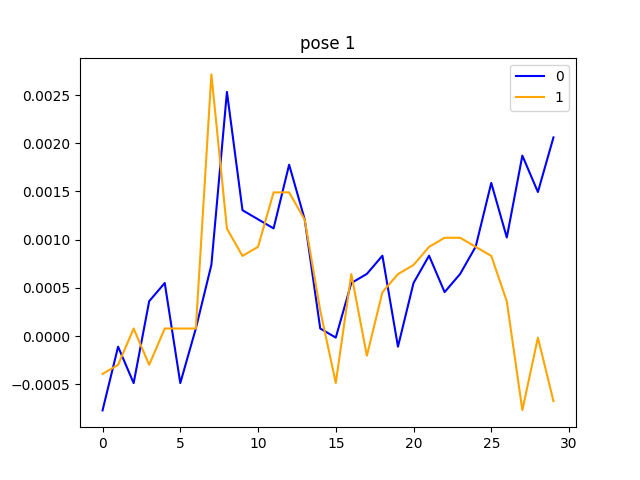
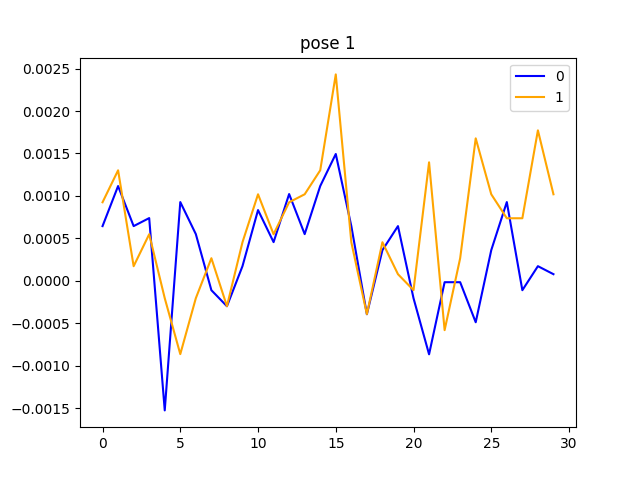
choose pose only

diff --git a/app/lib/pages/experiment.dart b/app/lib/pages/experiment.dart
@@ -23,6 +23,7 @@ import 'package:flutter/services.dart' show rootBundle;
 
 Future<void> pyInitResult = Future(() => null);
 Future<void> pyImportResult = Future(() => null);
+bool b_predRun = false;
 
 class Experiment extends StatefulWidget {
   const Experiment({Key? key}) : super(key: key);
@@ -34,7 +35,6 @@ class Experiment extends StatefulWidget {
 class ExperimentState extends State<Experiment> {
   List<int> randomIntegers =
       List.generate(40, (index) => Random().nextInt(100));
-  bool b_predRun = false;
   int iPose = 0;
   late var bytes;
   late Image _image;
@@ -112,7 +112,8 @@ class ExperimentState extends State<Experiment> {
   Future<void> predict_getData() async {
     bPredRunning = true;
     await EMGClassifierServiceClient(getClientChannel())
-        .classify_Signal(PredictRequest(idxFrom: idxFrom, idxTo: -1))
+        .classify_Signal(
+            PredictRequest(idxFrom: idxFrom, idxTo: pose_to_predict))
         .then((p0) => {
               sample_idx++,
               iPose = p0.signal,
@@ -276,6 +277,7 @@ class ExperimentState extends State<Experiment> {
         onPressed: () {
           setState(() {
             b_predRun = !b_predRun;
+            pose_to_predict = 11;
             idxFrom = 0;
           });
         },
@@ -295,6 +297,7 @@ class User_pose_selector extends StatefulWidget {
   State<User_pose_selector> createState() => _User_pose_selectorState();
 }
 
+var pose_to_predict = 0;
 const List<String> UserList = <String>['One', 'Two'];
 const List<String> PoseList = <String>['0', '1', '2', '3', '4', '5'];
 
@@ -333,6 +336,8 @@ class _User_pose_selectorState extends State<User_pose_selector> {
                 // This is called when the user selects an item.
                 setState(() {
                   dropdownValue = value!;
+                  pose_to_predict = int.parse(dropdownValue);
+                  b_predRun = true;
                 });
               },
               dropdownMenuEntries:

diff --git a/server/classifier.py b/server/classifier.py
@@ -378,49 +378,79 @@ cur_sample_idx = 0
 global pred_rate
 # pred_rate = []
 b = True
-def predict_plot():
-    # if(b):
-    #     BlueToothConnect()
-    #     b = False
-    global cur_sample_idx
-    global pred_rate
[1 lines of base64/hex data omitted]
-    if(cur_sample_idx <len(test_X_sample_rate)):
-        # for X_test_rate in test_X_sample_rate:
-        X_test_rate = test_X_sample_rate[cur_sample_idx]
-        base64=drawPlotAlongSample(X_test_rate)
-        if(base64!=None):
-            plot_as_base64 = base64
-        preds_1 = load_model_1.predict(X_test_rate)
-        preds_2 = load_model_2.predict(X_test_rate)
-        preds_3 = load_model_3.predict(X_test_rate)
+def predict_plot(cur_sample_idx,wanted_pose):
+    # pose = 5+
+    sample_idx_from=0
+    sample_idx_to=0
 
-        pred_c = []
-        pred_c.append(preds_1)
-        pred_c.append(preds_2)
-        pred_c.append(preds_3)
-        pred_c = np.array(pred_c)
-
-
-        preds_label_c = []
-        for preds in pred_c:
-            pred_label = []
-            for prediction in preds:
-                pred_label.append(np.argmax(prediction))
-            pred_label = np.array(pred_label)
-            preds_label_c.append(pred_label)
+    if(wanted_pose>5):
+        lim_sample_idx=len(test_X_sample_rate)
+        start_idx = 0
         
-
-        preds_label_c = acquire_pred_for_each(pred_c)
-        
-        pred = predFromMaxPred(X_test_rate,preds_label_c)
-        bluetoothCommand(pred)
-        # pred_rate.append(pred)
-        pred_rate = np.array(pred)
-
-        cur_sample_idx += 1
     else:
-        cur_sample_idx = 0
+
+        match wanted_pose:
+            case 0:
+                sample_idx_from = 000
+                sample_idx_to = 111
+            case 1:
+                sample_idx_from = 113
+                sample_idx_to = 222
+            case 2:
+                sample_idx_from = 222
+                sample_idx_to = 334
+            case 3:
+                sample_idx_from = 334
+                sample_idx_to = 446
+            case 4:
+                sample_idx_from = 447
+                sample_idx_to = 558
+            case 5:
+                sample_idx_from = 559
+                sample_idx_to = -1
+        cur_sample_idx = sample_idx_from
+        lim_sample_idx = sample_idx_to
+        start_idx = sample_idx_from
+
+
+    # if(cur_sample_idx <len(test_X_sample_rate)):
+    
+    if(cur_sample_idx > lim_sample_idx):
+        cur_sample_idx = start_idx
+    
+    # for X_test_rate in test_X_sample_rate:
+    X_test_rate = test_X_sample_rate[cur_sample_idx]
+    # X_test_rate = test_X_sample_rate[0]
+    base64=drawPlotAlongSample(X_test_rate)
+    if(base64!=None):
+        plot_as_base64 = base64
+    preds_1 = load_model_1.predict(X_test_rate)
+    preds_2 = load_model_2.predict(X_test_rate)
+    preds_3 = load_model_3.predict(X_test_rate)
+
+    pred_c = []
+    pred_c.append(preds_1)
+    pred_c.append(preds_2)
+    pred_c.append(preds_3)
+    pred_c = np.array(pred_c)
+
+
+    preds_label_c = []
+    for preds in pred_c:
+        pred_label = []
+        for prediction in preds:
+            pred_label.append(np.argmax(prediction))
+        pred_label = np.array(pred_label)
+        preds_label_c.append(pred_label)
+    
+
+    preds_label_c = acquire_pred_for_each(pred_c)
+    
+    pred = predFromMaxPred(X_test_rate,preds_label_c)
+    bluetoothCommand(pred)
+    # pred_rate.append(pred)
+    pred_rate = np.array(pred)
+
     # return pred_rate[-1]
         # print(plot_as_base64)
     return {'pred':pred_rate,'base64':plot_as_base64}

diff --git a/server/server.py b/server/server.py
@@ -22,7 +22,10 @@ class UrMumJoke(services_pb2_grpc.UrMumJoke):
 class EMGClassifierService(services_pb2_grpc.EMGClassifierService):
   def Classify_Signal(self, request, context):
       print("request data from %s, to %s"%(request.idx_from,request.idx_to))
-      predplot = classifier.predict_plot()
+      # predplot = classifier.predict_plot()
+      # predplot = classifier.predict_plot(request.idx_from,request.idx_to) # the to is now act as the wanted test pose, will fix/clean later
+      predplot = classifier.predict_plot(request.idx_from,request.idx_to) # the to is now act as the wanted test pose, will fix/clean later
+      
       iPose = predplot['pred']
       base64 = predplot['base64']
       print("base64 after pred: %s"%base64)
